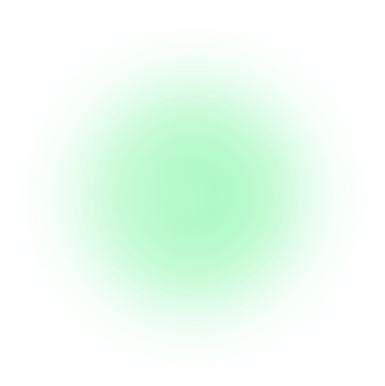
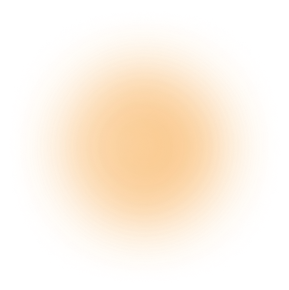
new

Changed region(s): [[0.1869, 0.1862, 0.8097, 0.8069]]

diff --git a/src/views/home/home.vue b/src/views/home/home.vue
@@ -7,14 +7,16 @@
       <div class="QRPay-con">
         <div class="QRPay-balance">
           <div class="QRPay-balance-title">AEON balance
-            <div class="QRPay-balance-title-imgs" @click="balanceShow=!balanceShow">
-              <img class="QRPay-balance-title-img" :src="balanceShow?seeImg:seeCloseImg" alt="">
+            <div class="QRPay-balance-title-imgs" @click="balanceShow = !balanceShow">
+              <img class="QRPay-balance-title-img" :src="balanceShow ? seeImg : seeCloseImg" alt="">
               <!-- <van-icon class="closed-eye-icon" v-else name="closed-eye" /> -->
               <!-- <img v-else cla ss="QRPay-balance-title-img" src="@/assets/images/home/see-close-icon.png" alt=""> -->
             </div>
           </div>
-          <div class="QRPay-balance-number" v-if="balanceShow">{{ userBalances.faitIcon }}{{ userBalances.balances }}</div>
-          <div class="QRPay-balance-number" v-else>{{ userBalances.faitIcon }} <span class="special-font">******</span></div>
+          <div class="QRPay-balance-number" v-if="balanceShow">{{ userBalances.faitIcon }}{{ userBalances.balances }}
+          </div>
+          <div class="QRPay-balance-number" v-else>{{ userBalances.faitIcon }} <span class="special-font">******</span>
+          </div>
         </div>
         <div class="QRPay-balance-btn" @click="goManagebalance">
           <img class="QRPay-balance-btn-img" src="@/assets/images/home/wallet-icon.png" alt="" srcset="">
@@ -42,13 +44,13 @@
                   alt="" srcset="">
                 <img v-else class="shopping-img" src="@/assets/images/home/shopping-failed.png" alt="" srcset="">
                 <div class="QRPay-list-con">
-                  <div class="QRPay-list-con-name">{{ item.name }}</div>
+                  <div class="QRPay-list-con-name">{{ item.productName }}</div>
                   <div class="QRPay-list-con-time">{{ item.updateTime }}</div>
                 </div>
               </div>
               <div class="QRPay-list-right">
-                <div class="QRPay-list-con-num">{{ item.status == 'SUCCESS' ? '-' : '+' }}{{ item.number }} {{ item.fait
-                  }}
+                <div class="QRPay-list-con-num">{{ item.status == 'SUCCESS' ? '-' : '+' }}{{ item.orderAmount }} {{
+                  item.orderCurrency}}
                 </div>
                 <div class="QRPay-list-con-status">
                   <div class="completed-color" v-if="item.status == 'SUCCESS'">Completed</div>
@@ -243,7 +245,7 @@ export default defineComponent({
             ])
             transactionList.forEach((item: { updateTime: moment.MomentInput; }) => {
               item.updateTime = moment(item.updateTime).format('YYYY-MM-DD HH:mm:ss');
-              item.time = moment(item.updateTime).format('YYYY-MM-DD HH:mm:ss');
+              // item.time = moment(item.updateTime).format('YYYY-MM-DD HH:mm:ss');
             })
 
             data.transactionList = transactionList.concat(data.transactionList)
@@ -283,27 +285,43 @@ export default defineComponent({
         let flag = navigator.userAgent.match(/(phone|pad|pod|iPhone|iPod|ios|iPad|Android|Mobile|BlackBerry|IEMobile|MQQBrowser|JUC|Fennec|wOSBrowser|BrowserNG|WebOS|Symbian|Windows Phone)/i)
         return flag
       },
-      async goUrl(status: any) {
+      async goUrl(status: any, orderNo: any) {
         switch (status) {
           case 'SUCCESS':
-            router.push({ path: '/transactionComplete' })
+            router.push({
+              path: '/transactionComplete', query: {
+                orderNo:orderNo
+            }
+            })
             break;
           case 'FAIL':
-            router.push({ path: '/transactionFailed' })
+            router.push({
+              path: '/transactionFailed', query: {
+                orderNo: orderNo
+              }
+            })
             break;
           case 'ERROR':
-            router.push({ path: '/transactionFailed' })
+            router.push({
+              path: '/transactionFailed', query: {
+                orderNo: orderNo
+              }
+            })
             break;
           case 'TIMEOUT':
-            router.push({ path: '/timeOut' })
+            router.push({
+              path: '/timeOut', query: {
+                orderNo: orderNo
+              }
+            })
             break;
           default:
             break;
         }
       },
-      async goDetail(detail: { status: string; }) {
+      async goDetail(detail: { status: string; num: string;}) {
         couponStore.SET_ORDERDETAIL(detail)
-        await infoMethods.goUrl(detail.status)
+        await infoMethods.goUrl(detail.status, detail.num)
       },
       onClose() {
         data.icShow = false

diff --git a/src/views/orderDetail/transaction/complete/index.vue b/src/views/orderDetail/transaction/complete/index.vue
@@ -3,7 +3,7 @@
         <HeaderBar :title="headerTitle" :defaultH="true"></HeaderBar>
         <div class="complete-con">
             <img class="status-icon" src="@/assets/images/status/completed-icon.png" alt="" sizes="" srcset="">
-            <div class="complete-title">{{ detail.confirmedNum }} {{ detail.crypto }}</div>
+            <div class="complete-title">{{ detail.paymentAmount }} {{ detail.paymentUnit }}</div>
             <div class="complete-text">Success</div>
             <div class="complete-payment">
                 <div class="complete-payment-header">
@@ -13,9 +13,9 @@
                             <img src="@/assets/images/status/momo-logo.png" alt="" srcset="">
                         </div>
                         <div class="complete-payment-header-li">
-                            <div class="complete-payment-header-li-title">NGUYEN VANA</div>
+                            <div class="complete-payment-header-li-title">{{ detail.bankAccountName }}</div>
                             <div class="complete-payment-header-li-text">
-                                <div>9019948815</div>
+                                <div>{{ detail.bankAccountNumber }}</div>
                                 <div class="complete-li-text-line">MB Bank</div>
                             </div>
                         </div>
@@ -26,8 +26,8 @@
                     <div class="complete-payment-con-li">
                         <div class="complete-payment-con-li-title">OrderID</div>
                         <div class="complete-payment-con-li-text">
-                            {{ detail.orderId }}
-                            <copyCon :copyHtml="detail.orderId" />
+                            {{ detail.orderNo }}
+                            <copyCon :copyHtml="detail.orderNo" />
                         </div>
                     </div>
                     <div class="complete-payment-con-li matop-24">
@@ -39,7 +39,7 @@
                     <div class="complete-payment-con-li matop-24">
                         <div class="complete-payment-con-li-title">Payment time</div>
                         <div class="complete-payment-con-li-text">
-                            {{ detail.time }}
+                            {{ detail.paymentTime }}
                         </div>
                     </div>
                 </div>
@@ -49,11 +49,12 @@
 </template>
 
 <script lang='ts'>
-import { defineComponent, ref, reactive, toRefs, onBeforeMount, onMounted, onActivated, watchEffect } from 'vue';
+import { defineComponent, ref, getCurrentInstance, reactive, toRefs, onBeforeMount, onMounted, onActivated, watchEffect } from 'vue';
 import { useRoute, useRouter } from 'vue-router';
 import HeaderBar from '@/components/headerBar/index.vue'
 import copyCon from '@/components/copy/index.vue'
 import { useMain } from '@/store';
+import { getOrderDetail } from "@/apis/api"
 
 export default defineComponent({
     name: 'trCompleteResult',
@@ -62,19 +63,41 @@ export default defineComponent({
         const route = useRoute();
         const router = useRouter();
         const couponStore = useMain();
+        const { proxy } = getCurrentInstance() as any
         const data = reactive({
-            headerTitle:'Transaction details',
+            headerTitle: 'Transaction details',
             headerLogo: new URL('@/assets/images/status/aeon-logo.png', import.meta.url).href,
             orderId: '661bbbc10cf7f20007e4ff48',
-            detail: {} as any
+            detail: {} as any,
+            orderNo: '' as any
         })
+        const getOrder = async () => {
+            let res = await getOrderDetail(data.orderNo)
+            if (res.data.code == 0) {
+                data.detail = res.data.model
+            } else {
+                proxy.$failToast(res.data.msg, 'failToast', 3000)
+            }
+        }
         onBeforeMount(() => {
         })
-        onMounted(() => {
-            data.detail = couponStore.$state.orderDetail
+        onMounted(async () => {
+            let orderNo = route.query.orderNo
+            if (orderNo) {
+                data.orderNo = orderNo
+                await getOrder()
+            } else {
+                data.detail = couponStore.$state.orderDetail
+            }
         })
-        onActivated(() => {
-            data.detail = couponStore.$state.orderDetail
+        onActivated(async () => {
+            let orderNo = route.query.orderNo
+            if (orderNo) {
+                data.orderNo = orderNo
+                await getOrder()
+            } else {
+                data.detail = couponStore.$state.orderDetail
+            }
         })
         return {
             ...toRefs(data)

diff --git a/src/views/history/components/index.vue b/src/views/history/components/index.vue
@@ -37,12 +37,16 @@
                             }}
                         </div>
                         <div class="QRPay-list-con-status">
-                            <div class="completed-color" v-if="item.type != 'REFUND' && item.status == 'SUCCESS'">
+                            <div class="Pending-color" v-if="item.status == 'PENDING'">
+                                PENDING
+                            </div>
+                            <div class="completed-color" v-else-if="item.type != 'REFUND' && item.status == 'SUCCESS'">
                                 Completed
                             </div>
-                            <div class="failed-color" v-if="item.type != 'REFUND' && item.status == 'FAIL'">Failed</div>
-                            <div class="Refund-color" v-if="item.type == 'REFUND' && item.status == 'SUCCESS'">Refund
+                            <div class="failed-color" v-else-if="item.type != 'REFUND' && item.status == 'FAIL'">Failed</div>
+                            <div class="Refund-color" v-else-if="item.type == 'REFUND' && item.status == 'SUCCESS'">Refund
                             </div>
+                            <div class="failed-color" v-else>{{ item.status }}</div>
                         </div>
                     </div>
                 </div>
@@ -85,6 +89,7 @@ export default defineComponent({
         const couponStore = useMain();
 
         const data = reactive({
+            currency: '' as any,
             refLoading: true,
             loadingText: '...',
             img1: new URL('@/assets/images/balance/arrow-retract-icon.png', import.meta.url).href,
@@ -140,7 +145,7 @@ export default defineComponent({
 
         }
         const onHistory = async () => {
-            let res = await getHistory(data.pageNo, data.pageSize, activeTab.value)
+            let res = await getHistory(data.pageNo, data.pageSize, activeTab.value, data.currency)
             if (res.data.code == 0) {
                 if (res.data.model.data && res.data.model.data.length > 0) {
                     let transactionList = res.data.model.data
@@ -182,8 +187,13 @@ export default defineComponent({
             couponStore.SET_ORDERDETAIL({})
         })
         onMounted(async () => {
+            if (route.query.currency) {
+                data.currency = route.query.currency
+            } else {
+                data.currency = props.currency
+            }
             activeTab.value = 'DEPOSIT';
-            // console.log(props.currency)
+            console.log(props.currency)
             await onRefresh()
         })
         watchEffect(() => {

diff --git a/src/views/orderDetail/transaction/failed/index.vue b/src/views/orderDetail/transaction/failed/index.vue
@@ -41,11 +41,12 @@
 </template>
 
 <script lang='ts'>
-import { defineComponent, ref, reactive, toRefs, onBeforeMount, onMounted, onActivated, watchEffect } from 'vue';
+import { defineComponent, ref, getCurrentInstance, reactive, toRefs, onBeforeMount, onMounted, onActivated, watchEffect } from 'vue';
 import { useRoute, useRouter } from 'vue-router';
 import HeaderBar from '@/components/headerBar/index.vue'
 import copyCon from '@/components/copy/index.vue'
 import { useMain } from '@/store';
+import { getOrderDetail } from "@/apis/api"
 
 export default defineComponent({
     name: 'trFailedResult',
@@ -54,6 +55,8 @@ export default defineComponent({
         const route = useRoute();
         const router = useRouter();
         const couponStore = useMain();
+        const { proxy } = getCurrentInstance() as any
+
         const data = reactive({
             headerTitle:'Transaction details',
             headerLogo: new URL('@/assets/images/status/aeon-logo.png', import.meta.url).href,
@@ -61,15 +64,36 @@ export default defineComponent({
             total:'20,000',
             currency:'VND',
             time:'2024-04-14 18:19 (UTC+8)',
-            detail: {} as any
+            detail: {} as any,
+            orderNo:'' as any
         })
+        const getOrder = async () => {
+            let res = await getOrderDetail(data.orderNo)
+            if (res.data.code == 0) {
+                data.detail = res.data.model
+            } else {
+                proxy.$failToast(res.data.msg, 'failToast', 3000)
+            }
+        }
         onBeforeMount(() => {
         })
-        onMounted(() => {
-            data.detail = couponStore.$state.orderDetail
+        onMounted(async () => {
+            let orderNo = route.query.orderNo
+            if (orderNo) {
+                data.orderNo = orderNo
+                await getOrder()
+            } else {
+                data.detail = couponStore.$state.orderDetail
+            }
         })
-        onActivated(() => {
-            data.detail = couponStore.$state.orderDetail
+        onActivated(async () => {
+            let orderNo = route.query.orderNo
+            if (orderNo) {
+                data.orderNo = orderNo
+                await getOrder()
+            } else {
+                data.detail = couponStore.$state.orderDetail
+            }
         })
         watchEffect(() => {
         })

diff --git a/src/apis/api.ts b/src/apis/api.ts
@@ -79,8 +79,8 @@ export function putWithdraw(data: any) {
 export function getBalances(faitCurrency: any) {
   return http.get(`${wallet.balances}?currency=${faitCurrency}`);
 }
-export function getHistory(pageNo: any, pageSize: any, type: any) {
-  return http.get(`${wallet.history}?pageNo=${pageNo}&pageSize=${pageSize}&type=${type}`);
+export function getHistory(pageNo: any, pageSize: any, type: any, token:any) {
+  return http.get(`${wallet.history}?pageNo=${pageNo}&pageSize=${pageSize}&type=${type}&token=${token}`);
 }
 export function getWalletRecordDetail(id: string, type: string) {
   return http.get(`${wallet.walletRecordDetail}?id=${id}&type=${type}`);

diff --git a/src/views/history/components/index.scss b/src/views/history/components/index.scss
@@ -154,7 +154,12 @@
                 line-height: 16px;
                 color: #737A86;
             }
-
+            .Pending-color{
+                font-family: 'sf-pro-display_regular_400';
+                text-align: right;
+                color: #1A72F6;
+                margin-top: 2px;
+            }
             .completed-color {
                 font-family: 'sf-pro-display_regular_400';
                 text-align: right;

diff --git a/src/views/history/index.vue b/src/views/history/index.vue
@@ -21,7 +21,7 @@ export default defineComponent({
             headerTitle: 'History',
             tranList:{
                 type:'DEPOSIT',
-                currency:'USDT'
+                currency:''
             }
         })
         const activeTab = ref();

diff --git a/src/views/settings/components/currency/index.scss b/src/views/settings/components/currency/index.scss
@@ -41,7 +41,7 @@
                 align-items: center;
             }
             .currency-li-font{
-                color: #31CF61;
+                color: #F59119;
             }
         }
         .currency-li-con:hover {

diff --git a/src/views/settings/components/language/index.scss b/src/views/settings/components/language/index.scss
@@ -31,7 +31,7 @@
                 align-items: center;
             }
             .language-li-font{
-                color: #31CF61;
+                color: #F59119;
             }
         }
         .language-li-con:hover{

diff --git a/src/views/history/index.scss b/src/views/history/index.scss
@@ -1,5 +1,6 @@
 .history-box {
     margin: 0 auto;
+    padding-bottom: 58px;
 }
 .tranList{
     margin: 16px;
